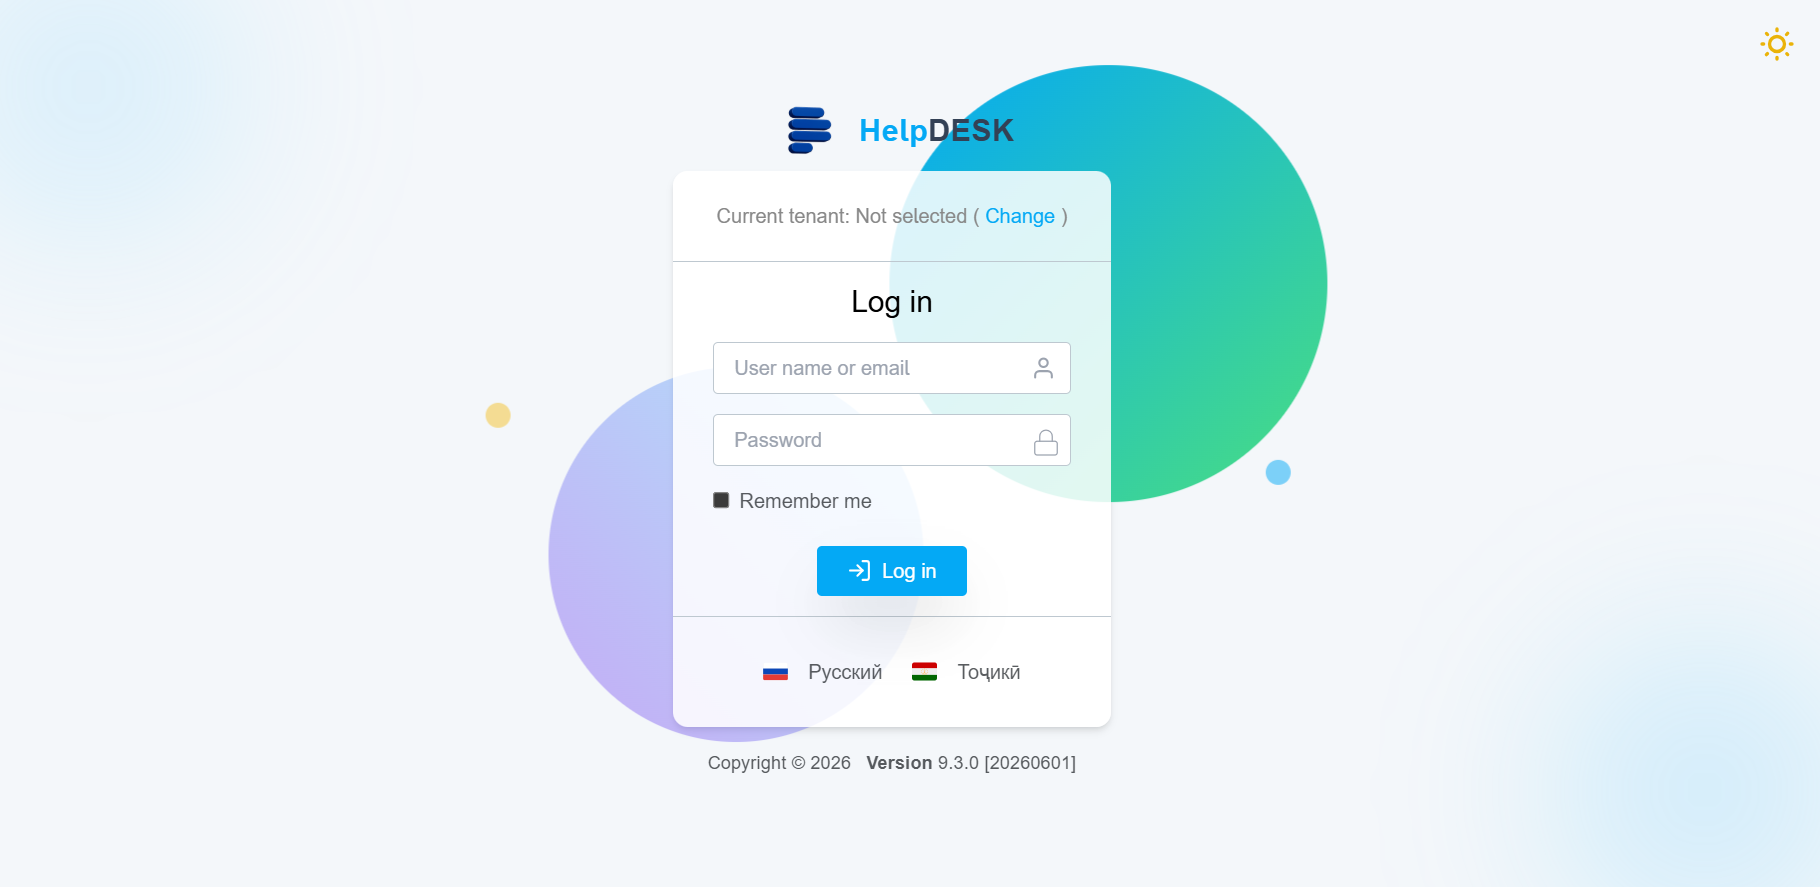
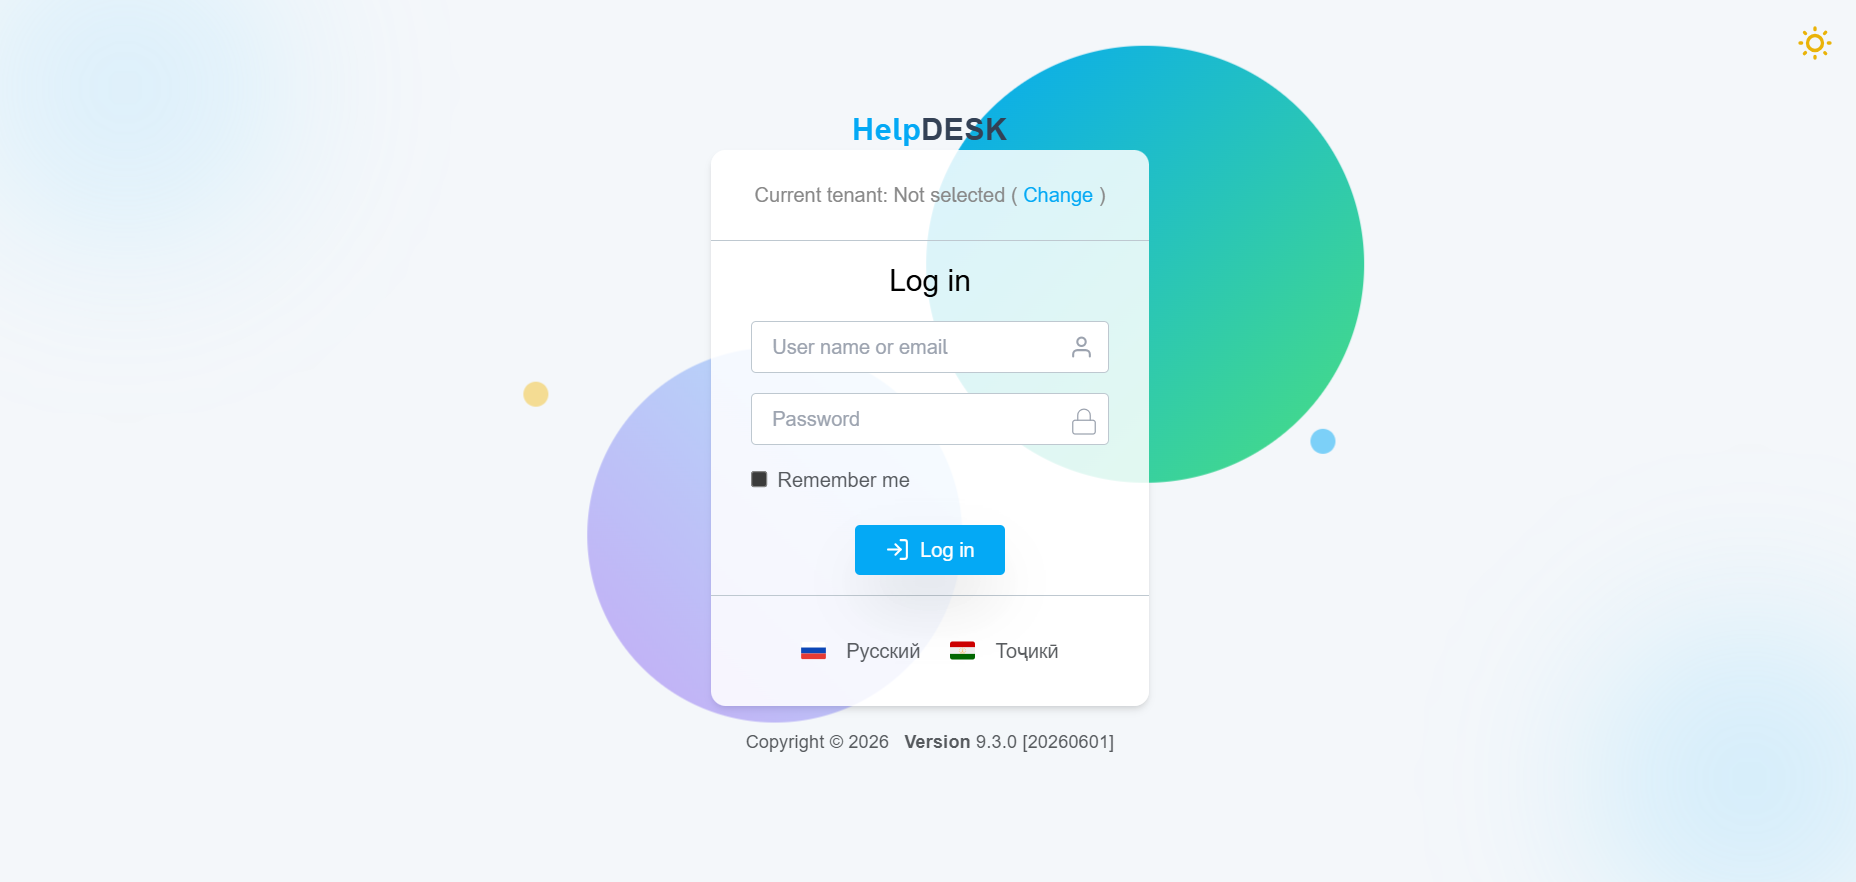
docs: add full screenshots walkthrough and finalize project documentation

diff --git a/Frontend/HelpDesk1/src/app/home/home.component.html b/Frontend/HelpDesk1/src/app/home/home.component.html
@@ -1,1 +1,109 @@
-<app-issue-workspace></app-issue-workspace>
+
+<div class="min-h-screen p-4 sm:p-6 bg-transparent">
+  <div class="relative transition-all duration-300 ease-in-out">
+    <!-- Header -->
+    <div class="flex flex-col gap-3 mb-5 sm:flex-row sm:justify-between sm:items-center">
+      <div>
+        <h1 class="text-2xl font-bold text-theme-bodycolor dark:text-themedark-bodycolor">HelpDesk Dashboard</h1>
+        <p class="text-xs text-theme-bodycolor dark:text-themedark-bodycolor mt-1">06 Январь 2026</p>
+      </div>
+      <div class="flex gap-2 items-center">
+        <select class="px-3 py-1.5 text-xs rounded-lg border border-theme-inputborder dark:border-themedark-inputborder bg-theme-inputbg dark:bg-themedark-inputbg text-theme-bodycolor dark:text-themedark-bodycolor focus:outline-none focus:ring-1 focus:ring-primary-500">
+          <option>7 дней</option>
+          <option>30 дней</option>
+          <option>Год</option>
+        </select>
+        <button class="bg-primary-500 text-white px-4 py-1.5 text-xs rounded-lg hover:bg-primary-700 transition">Экспорт</button>
+      </div>
+    </div>
+
+    <!-- Separator -->
+    <div class="w-full h-px bg-gray-200 dark:bg-gray-700 mb-5"></div>
+
+    <!-- Key Metrics Cards -->
+    <div class="grid grid-cols-2 sm:grid-cols-3 lg:grid-cols-6 gap-4 mb-6">
+      <div class="bg-theme-cardbg dark:bg-themedark-cardbg rounded-lg shadow-[0_0_8px_rgba(0,0,0,0.2)] dark:shadow-[0_0_10px_rgba(0,0,0,0.3)] p-4 text-center">
+        <p class="text-xs font-medium text-theme-bodycolor dark:text-themedark-bodycolor">Всего</p>
+        <p class="text-2xl font-bold text-theme-bodycolor dark:text-themedark-bodycolor mt-1">{{ mockData.totalTickets }}</p>
+        <p class="text-xs text-green-600 dark:text-green-400">+8.4%</p>
+      </div>
+      <div class="bg-theme-cardbg dark:bg-themedark-cardbg rounded-lg shadow-[0_0_8px_rgba(0,0,0,0.2)] dark:shadow-[0_0_10px_rgba(0,0,0,0.3)] p-4 text-center">
+        <p class="text-xs font-medium text-theme-bodycolor dark:text-themedark-bodycolor">Открытые</p>
+        <p class="text-2xl font-bold text-orange-500 mt-1">{{ mockData.openTickets }}</p>
+        <p class="text-xs text-red-600 dark:text-red-400">+3.2%</p>
+      </div>
+      <div class="bg-theme-cardbg dark:bg-themedark-cardbg rounded-lg shadow-[0_0_8px_rgba(0,0,0,0.2)] dark:shadow-[0_0_10px_rgba(0,0,0,0.3)] p-4 text-center">
+        <p class="text-xs font-medium text-theme-bodycolor dark:text-themedark-bodycolor">В работе</p>
+        <p class="text-2xl font-bold text-blue-500 mt-1">{{ mockData.inProgressTickets }}</p>
+      </div>
+      <div class="bg-theme-cardbg dark:bg-themedark-cardbg rounded-lg shadow-[0_0_8px_rgba(0,0,0,0.2)] dark:shadow-[0_0_10px_rgba(0,0,0,0.3)] p-4 text-center">
+        <p class="text-xs font-medium text-theme-bodycolor dark:text-themedark-bodycolor">Закрыто сегодня</p>
+        <p class="text-2xl font-bold text-green-500 mt-1">{{ mockData.closedToday }}</p>
+      </div>
+      <div class="bg-theme-cardbg dark:bg-themedark-cardbg rounded-lg shadow-[0_0_8px_rgba(0,0,0,0.2)] dark:shadow-[0_0_10px_rgba(0,0,0,0.3)] p-4 text-center">
+        <p class="text-xs font-medium text-theme-bodycolor dark:text-themedark-bodycolor">SLA</p>
+        <p class="text-2xl font-bold text-theme-bodycolor dark:text-themedark-bodycolor mt-1">{{ mockData.slaCompliance }}%</p>
+      </div>
+      <div class="bg-theme-cardbg dark:bg-themedark-cardbg rounded-lg shadow-[0_0_8px_rgba(0,0,0,0.2)] dark:shadow-[0_0_10px_rgba(0,0,0,0.3)] p-4 text-center">
+        <p class="text-xs font-medium text-theme-bodycolor dark:text-themedark-bodycolor">Среднее время</p>
+        <p class="text-2xl font-bold text-theme-bodycolor dark:text-themedark-bodycolor mt-1">{{ mockData.avgResolutionTime }}</p>
+      </div>
+    </div>
+
+    <!-- Charts Section – Yangi tartib: Топ категорий va Динамика yonma-yon -->
+    <div class="grid grid-cols-1 lg:grid-cols-2 gap-5 mb-6">
+      <!-- Chap taraf: Status, Priority va SLA (uchta kichik chart) -->
+      <div class="grid grid-cols-1 sm:grid-cols-2 gap-5">
+        <div class="bg-theme-cardbg dark:bg-themedark-cardbg rounded-lg shadow-[0_0_8px_rgba(0,0,0,0.2)] dark:shadow-[0_0_10px_rgba(0,0,0,0.3)] p-4 h-64">
+          <h3 class="text-base font-semibold text-theme-bodycolor dark:text-themedark-bodycolor mb-2">Статусы</h3>
+          <canvas #statusChart></canvas>
+        </div>
+        <div class="bg-theme-cardbg dark:bg-themedark-cardbg rounded-lg shadow-[0_0_8px_rgba(0,0,0,0.2)] dark:shadow-[0_0_10px_rgba(0,0,0,0.3)] p-4 h-64">
+          <h3 class="text-base font-semibold text-theme-bodycolor dark:text-themedark-bodycolor mb-2">Приоритеты</h3>
+          <canvas #priorityChart></canvas>
+        </div>
+        <div class="bg-theme-cardbg dark:bg-themedark-cardbg rounded-lg shadow-[0_0_8px_rgba(0,0,0,0.2)] dark:shadow-[0_0_10px_rgba(0,0,0,0.3)] p-4 h-64 sm:col-span-2">
+          <h3 class="text-base font-semibold text-theme-bodycolor dark:text-themedark-bodycolor mb-2">SLA динамика (5 ой)</h3>
+          <canvas #slaChart></canvas>
+        </div>
+      </div>
+
+      <!-- O'ng taraf: Топ категорий va Динамика za 30 дней yonma-yon (ikkala chart ham kattaroq) -->
+      <div class="grid grid-cols-1 gap-5">
+        <div class="bg-theme-cardbg dark:bg-themedark-cardbg rounded-lg shadow-[0_0_8px_rgba(0,0,0,0.2)] dark:shadow-[0_0_10px_rgba(0,0,0,0.3)] p-4 h-72">
+          <h3 class="text-base font-semibold text-theme-bodycolor dark:text-themedark-bodycolor mb-2">Топ категорий</h3>
+          <canvas #categoryChart></canvas>
+        </div>
+        <div class="bg-theme-cardbg dark:bg-themedark-cardbg rounded-lg shadow-[0_0_8px_rgba(0,0,0,0.2)] dark:shadow-[0_0_10px_rgba(0,0,0,0.3)] p-4 h-72">
+          <h3 class="text-base font-semibold text-theme-bodycolor dark:text-themedark-bodycolor mb-2">Динамика за 30 дней</h3>
+          <canvas #trendChart></canvas>
+        </div>
+      </div>
+    </div>
+
+    <!-- Top Agents Table -->
+    <div class="bg-theme-cardbg dark:bg-themedark-cardbg rounded-lg shadow-[0_0_8px_rgba(0,0,0,0.2)] dark:shadow-[0_0_10px_rgba(0,0,0,0.3)] p-4">
+      <h3 class="text-base font-semibold text-theme-bodycolor dark:text-themedark-bodycolor mb-3">Топ-5 исполнителей</h3>
+      <div class="overflow-x-auto">
+        <table class="w-full text-xs text-theme-bodycolor dark:text-themedark-bodycolor">
+          <thead class="text-xs uppercase bg-gray-100 dark:bg-gray-800">
+            <tr>
+              <th class="px-4 py-2 text-left">Имя</th>
+              <th class="px-4 py-2 text-center">Закрыто</th>
+              <th class="px-4 py-2 text-center">Время</th>
+              <th class="px-4 py-2 text-center">Рейтинг</th>
+            </tr>
+          </thead>
+          <tbody class="divide-y divide-gray-200 dark:divide-gray-700">
+            <tr *ngFor="let agent of mockData.topAgents">
+              <td class="px-4 py-3">{{ agent.name }}</td>
+              <td class="px-4 py-3 text-center">{{ agent.closed }}</td>
+              <td class="px-4 py-3 text-center">{{ agent.avgTime }}</td>
+              <td class="px-4 py-3 text-center text-green-600 dark:text-green-400">{{ agent.rating }} ★</td>
+            </tr>
+          </tbody>
+        </table>
+      </div>
+    </div>
+  </div>
+</div>

diff --git a/Frontend/HelpDesk1/src/app/home/home.component.ts b/Frontend/HelpDesk1/src/app/home/home.component.ts
@@ -1,18 +1,170 @@
-import { Component, Injector, ChangeDetectionStrategy } from '@angular/core';
+import { Component, ViewChild, ElementRef, AfterViewInit, Injector, ChangeDetectionStrategy, OnDestroy } from '@angular/core';
 import { AppComponentBase } from '@shared/app-component-base';
 import { appModuleAnimation } from '@shared/animations/routerTransition';
 import { LocalizePipe } from '@shared/pipes/localize.pipe';
-import { IssueWorkspaceComponent } from "@app/issue-workspace/issue-workspace.component";
+
+import {
+  Chart,
+  CategoryScale,
+  LinearScale,
+  BarElement,
+  ArcElement,
+  LineElement,
+  PointElement,
+  Filler,
+  Tooltip,
+  Legend,
+  BarController,
+  DoughnutController,
+  LineController,
+} from 'chart.js';
 
 @Component({
-    templateUrl: './home.component.html',
-    animations: [appModuleAnimation()],
-    changeDetection: ChangeDetectionStrategy.OnPush,
-    standalone: true,
-    imports: [LocalizePipe, IssueWorkspaceComponent],
+  selector: 'app-home',
+  templateUrl: './home.component.html',
+  animations: [appModuleAnimation()],
+  changeDetection: ChangeDetectionStrategy.OnPush,
+  standalone: true,
+  imports: [LocalizePipe],
 })
-export class HomeComponent extends AppComponentBase {
-    constructor(injector: Injector) {
-        super(injector);
-    }
+export class HomeComponent extends AppComponentBase implements AfterViewInit, OnDestroy {
+  @ViewChild('statusChart') statusChartRef!: ElementRef<HTMLCanvasElement>;
+  @ViewChild('priorityChart') priorityChartRef!: ElementRef<HTMLCanvasElement>;
+  @ViewChild('categoryChart') categoryChartRef!: ElementRef<HTMLCanvasElement>;
+  @ViewChild('trendChart') trendChartRef!: ElementRef<HTMLCanvasElement>;
+  @ViewChild('slaChart') slaChartRef!: ElementRef<HTMLCanvasElement>;
+
+  private statusChart!: Chart;
+  private priorityChart!: Chart;
+  private categoryChart!: Chart;
+  private trendChart!: Chart;
+  private slaChart!: Chart;
+
+  readonly mockData = {
+    totalTickets: 3156,
+    openTickets: 392,
+    inProgressTickets: 184,
+    closedToday: 96,
+    slaCompliance: 96.8,
+    avgResolutionTime: '2.7 ч',
+    statusData: [392, 184, 87, 2493],
+    statusLabels: ['Открытые', 'В работе', 'Ожидают', 'Закрытые'],
+    priorityData: [1120, 1380, 580, 76],
+    priorityLabels: ['Низкий', 'Средний', 'Высокий', 'Критический'],
+    categoryData: [940, 720, 550, 430, 310, 206],
+    categoryLabels: ['CallCenter', 'Repair', 'TechDept', 'ATM', 'PayvandW.', 'PayvandC.'],
+    trendLabels: ['1', '4', '7', '10', '13', '16', '19', '22', '25', '28', '31 Янв'],
+    newTicketsTrend: [78, 92, 105, 88, 115, 132, 98, 120, 140, 155, 162],
+    closedTicketsTrend: [65, 80, 95, 102, 98, 110, 115, 125, 130, 138, 145],
+    slaData: [96.8, 95.2, 97.5, 94.1, 96.8],
+    slaLabels: ['Сент', 'Окт', 'Нояб', 'Дек', 'Янв'],
+    topAgents: [
+      { name: 'Иванов А.В.', closed: 168, avgTime: '1.9 ч', rating: 4.92 },
+      { name: 'Сидорова Е.П.', closed: 152, avgTime: '2.3 ч', rating: 4.87 },
+      { name: 'Кузнецов М.С.', closed: 139, avgTime: '2.6 ч', rating: 4.81 },
+      { name: 'Петрова Н.А.', closed: 127, avgTime: '2.8 ч', rating: 4.78 },
+      { name: 'Мирзаев Ш.Р.', closed: 114, avgTime: '3.1 ч', rating: 4.75 },
+    ],
+  };
+
+  constructor(injector: Injector) {
+    super(injector);
+    Chart.register(
+      CategoryScale,
+      LinearScale,
+      BarElement,
+      ArcElement,
+      LineElement,
+      PointElement,
+      Filler,
+      Tooltip,
+      Legend,
+      BarController,
+      DoughnutController,
+      LineController
+    );
+  }
+
+  ngAfterViewInit(): void {
+    this.createCharts();
+  }
+
+  private createCharts(): void {
+    const {
+      statusData,
+      statusLabels,
+      priorityData,
+      priorityLabels,
+      categoryData,
+      categoryLabels,
+      trendLabels,
+      newTicketsTrend,
+      closedTicketsTrend,
+      slaData,
+      slaLabels,
+    } = this.mockData;
+
+    this.statusChart = new Chart(this.statusChartRef.nativeElement, {
+      type: 'doughnut',
+      data: { labels: statusLabels, datasets: [{ data: statusData, backgroundColor: ['#fb923c', '#3b82f6', '#a3a3a3', '#10b981'], borderWidth: 0 }] },
+      options: { responsive: true, maintainAspectRatio: false, plugins: { legend: { position: 'bottom', labels: { font: { size: 10 }, padding: 10 } } } },
+    });
+
+    this.priorityChart = new Chart(this.priorityChartRef.nativeElement, {
+      type: 'bar',
+      data: { labels: priorityLabels, datasets: [{ data: priorityData, backgroundColor: '#8b5cf6' }] },
+      options: { responsive: true, maintainAspectRatio: false, plugins: { legend: { display: false } }, scales: { y: { beginAtZero: true, ticks: { font: { size: 10 } } }, x: { ticks: { font: { size: 10 } } } } },
+    });
+
+    this.categoryChart = new Chart(this.categoryChartRef.nativeElement, {
+      type: 'bar',
+      data: { labels: categoryLabels, datasets: [{ data: categoryData, backgroundColor: '#14b8a6' }] },
+      options: { indexAxis: 'y', responsive: true, maintainAspectRatio: false, plugins: { legend: { display: false } }, scales: { x: { ticks: { font: { size: 10 } } }, y: { ticks: { font: { size: 10 } } } } },
+    });
+
+    this.trendChart = new Chart(this.trendChartRef.nativeElement, {
+      type: 'line',
+      data: {
+        labels: trendLabels,
+        datasets: [
+          { label: 'Новые', data: newTicketsTrend, borderColor: '#3b82f6', backgroundColor: 'rgba(59,130,246,0.1)', tension: 0.4, fill: true },
+          { label: 'Закрытые', data: closedTicketsTrend, borderColor: '#10b981', backgroundColor: 'rgba(16,185,129,0.1)', tension: 0.4, fill: true },
+        ],
+      },
+      options: { responsive: true, maintainAspectRatio: false, plugins: { legend: { position: 'top', labels: { font: { size: 10 } } } }, scales: { y: { beginAtZero: true, ticks: { font: { size: 10 } } }, x: { ticks: { font: { size: 9 } } } } },
+    });
+
+    this.slaChart = new Chart(this.slaChartRef.nativeElement, {
+      type: 'line',
+      data: {
+        labels: slaLabels,
+        datasets: [{
+          label: 'SLA %',
+          data: slaData,
+          borderColor: '#10b981',
+          backgroundColor: 'rgba(16,185,129,0.2)',
+          tension: 0.3,
+          fill: true,
+          pointBackgroundColor: '#10b981',
+        }],
+      },
+      options: {
+        responsive: true,
+        maintainAspectRatio: false,
+        plugins: { legend: { display: false } },
+        scales: {
+          y: { beginAtZero: false, min: 90, max: 100, ticks: { font: { size: 10 } } },
+          x: { ticks: { font: { size: 10 } } },
+        },
+      },
+    });
+  }
+
+  ngOnDestroy(): void {
+    this.statusChart?.destroy();
+    this.priorityChart?.destroy();
+    this.categoryChart?.destroy();
+    this.trendChart?.destroy();
+    this.slaChart?.destroy();
+  }
 }

diff --git a/Frontend/HelpDesk1/src/app/issues/issues-card/issues-card.component.html b/Frontend/HelpDesk1/src/app/issues/issues-card/issues-card.component.html
@@ -27,10 +27,10 @@
       <nav class="flex space-x-4 sm:space-x-8" aria-label="Tabs">
         <button class="py-2 px-1 font-medium text-xs sm:text-sm transition-all duration-300 ease-in-out"
                 [ngClass]="activeTab === 'main' ? 'border-b-2 border-primary-500 text-primary-600 dark:text-primary-300' : 'text-gray-600 dark:text-gray-400 border-b-2 border-transparent hover:border-gray-400'"
-                (click)="setActiveTab('main')">{{ 'Asosiy' | localize }}</button>
+                (click)="setActiveTab('main')">{{ 'Main' | localize }}</button>
         <button class="py-2 px-1 font-medium text-xs sm:text-sm transition-all duration-300 ease-in-out"
                 [ngClass]="activeTab === 'additional' ? 'border-b-2 border-primary-500 text-primary-600 dark:text-primary-300' : 'text-gray-600 dark:text-gray-400 border-b-2 border-transparent hover:border-gray-400'"
-                (click)="setActiveTab('additional')">{{ 'Qoshimcha' | localize }}</button>
+                (click)="setActiveTab('additional')">{{ 'Additional' | localize }}</button>
       </nav>
     </div>
     <div class="pt-2" [ngClass]="{'hidden': activeTab !== 'main'}">

diff --git a/Frontend/HelpDesk1/src/account/layout/account-header.component.html b/Frontend/HelpDesk1/src/account/layout/account-header.component.html
@@ -1,7 +1,7 @@
 <div class="login-logo flex items-center justify-center relative z-50">
   <a class="flex items-center gap-2 z-10">
-    <img src="\assets\img\logo.png" alt="Logo" class="w-16 h-16 object-contain dark:hidden z-10" />
-    <img src="\assets\img\logo.png" alt="Logo" class="w-16 h-16 object-contain hidden dark:block z-10" />
+    <!-- <img src="\assets\img\logo.png" alt="Logo" class="w-16 h-16 object-contain dark:hidden z-10" />
+    <img src="\assets\img\logo.png" alt="Logo" class="w-16 h-16 object-contain hidden dark:block z-10" /> -->
     <h1 class="text-2xl font-semibold text-primary dark:text-primary tracking-wide">
       Help<span class="text-slate-700 dark:text-white">DESK</span>
     </h1>

diff --git a/Frontend/HelpDesk1/src/account/sign-in/sign-in.component.html b/Frontend/HelpDesk1/src/account/sign-in/sign-in.component.html
@@ -30,10 +30,10 @@
             <!-- LOGO -->
             <div class="flex items-center justify-center">
               <!-- Logo -->
-              <div class="w-16 h-16 mb-4">
+              <!-- <div class="w-16 h-16 mb-4">
                 <img src="logo.png" alt="Logo" class="auth-logo dark:hidden w-full h-full object-contain" />
                 <img src="logo.png" alt="Logo" class="auth-logo hidden dark:block w-full h-full object-contain" />
-              </div>
+              </div> -->
   
               <!-- Text -->
               <h1 class="text-xl font-semibold text-primary dark:text-primary tracking-wide">

diff --git a/Frontend/HelpDesk1/src/app/layout/sidebar-logo.component.html b/Frontend/HelpDesk1/src/app/layout/sidebar-logo.component.html
@@ -1,6 +1,6 @@
 <div class="m-header flex items-center justify-center h-16 pr-16 pt-2">
   @if (logoUrl) {
-    <img [src]="logoUrl" alt="Logo" class="h-16 w-auto" />
+    <!-- <img [src]="logoUrl" alt="Logo" class="h-16 w-auto" /> -->
     <h1 class="text-xl font-semibold text-primary dark:text-primary tracking-wide">
       Help<span class="text-white dark:text-white">DESK</span>
     </h1>
